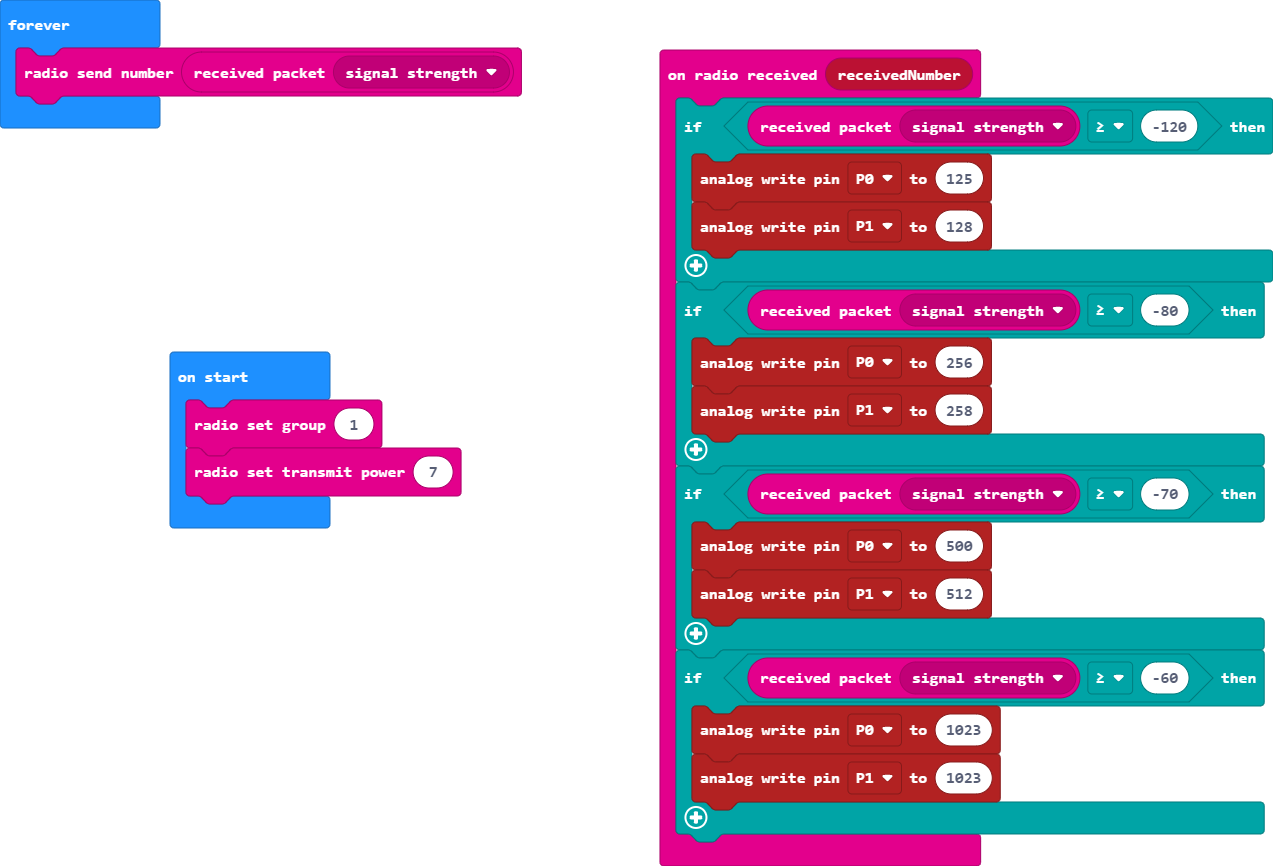
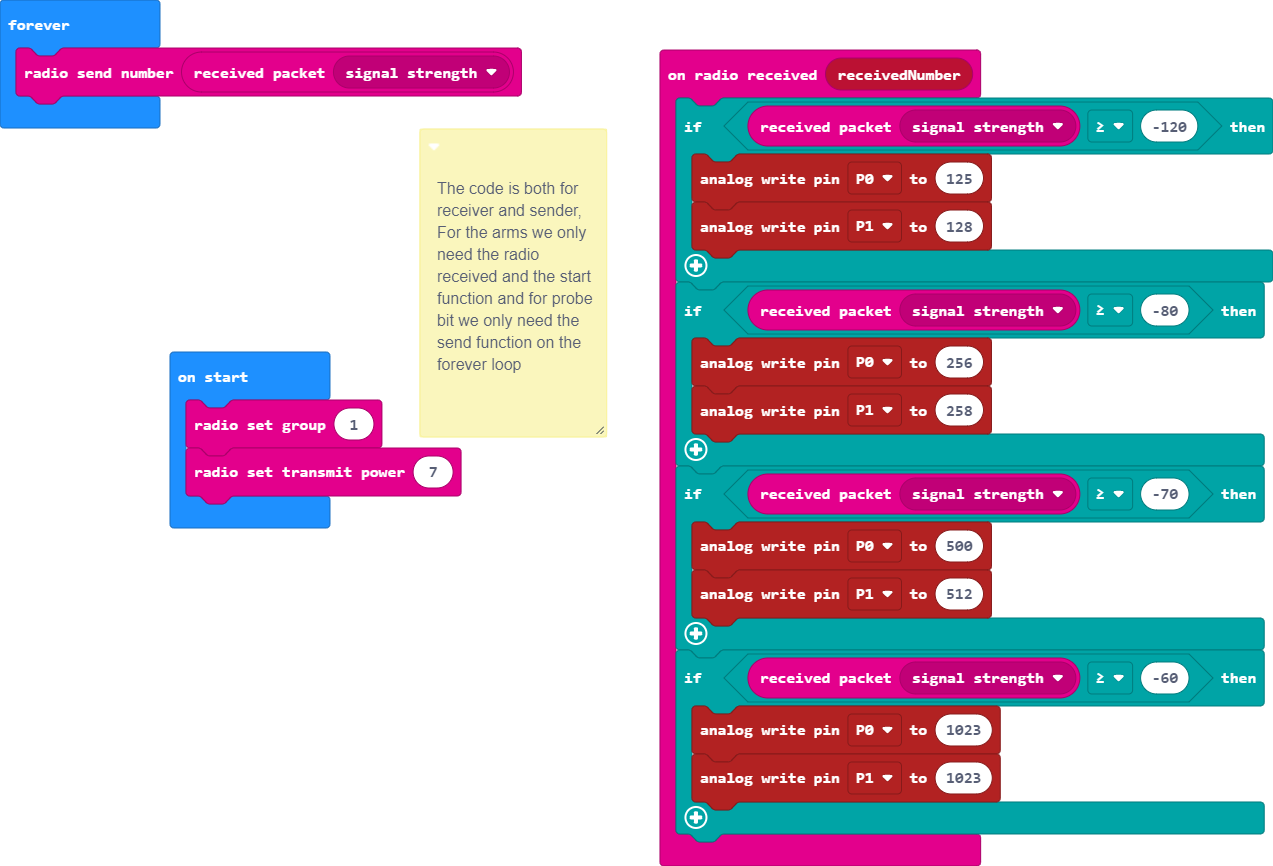
Comments

Changed region(s): [[0.3064, 0.1247, 0.4902, 0.53]]

diff --git a/main.ts b/main.ts
@@ -16,6 +16,9 @@ radio.onReceivedNumber(function (receivedNumber) {
         pins.analogWritePin(AnalogPin.P1, 1023)
     }
 })
+/**
+ * The code is both for receiver and sender, For the arms we only need the radio received and the start function and for probe bit we only need the send function on the forever loop
+ */
 radio.setGroup(1)
 radio.setTransmitPower(7)
 basic.forever(function () {
